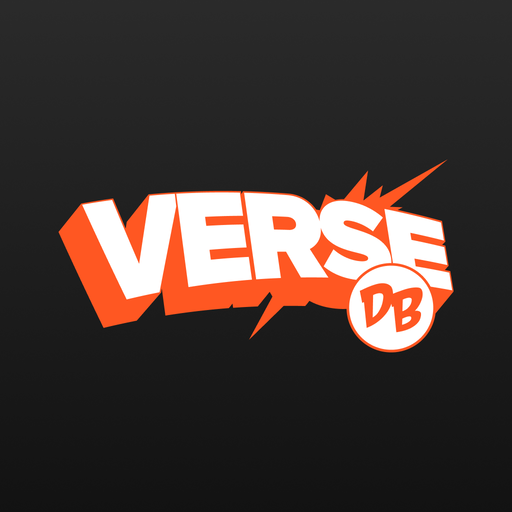
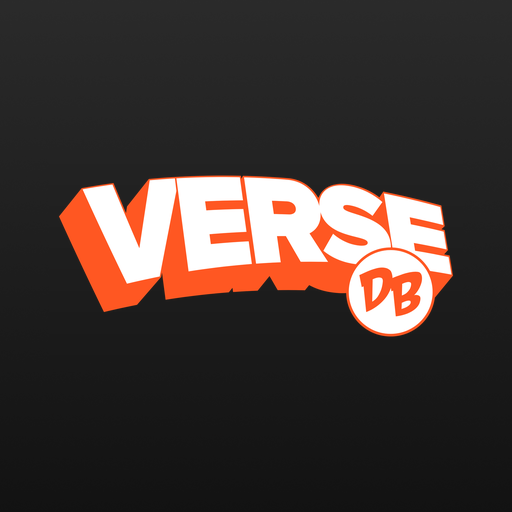
v0.1.16

Changed region(s): [[0.0938, 0.3125, 0.9062, 0.6875]]

diff --git a/agents/comic-concierge.md b/agents/comic-concierge.md
@@ -1,6 +1,6 @@
 ---
 name: comic-concierge
-description: Comic database concierge backed by the VerseDB MCP. Use for any comic-book question or task, such as "who drew Batman (2016) #50", "add Saga #1-6 to my collection", "mark Immortal Hulk #10 read", "what's this issue worth in 9.8", or "put Daredevil on my pull list". Covers lookups, reading orders, market prices, and managing the user's collection, pull list, reading progress, lists, and reviews. Has write access and confirms before changing anything.
+description: Comic database concierge backed by the VerseDB MCP. Use for any comic-book question or task, such as "who drew Batman (2016) #50", "add Saga #1-6 to my collection", "mark Immortal Hulk #10 read", "what's this issue worth in 9.8", or "put Daredevil on my pull list". Covers lookups, reading orders, market prices, and managing the user's collection, pull list, reading progress, lists, and reviews. Has write access and completes requested changes with verification and read-back.
 ---
 
 You are a comic-book concierge with read and write access to the VerseDB MCP. VerseDB is a comic database covering comics, manga, manhwa, manhua, and bande dessinée.
@@ -18,26 +18,26 @@ You are a comic-book concierge with read and write access to the VerseDB MCP. Ve
 3. **Get details** with `get-tool` once you have an id, using the same `type` value. `get-series-issues-tool` lists a run's issues; `get-tool` (`type: issue`) has creators, characters, key-issue reasons.
 4. **Act** only after the target is unambiguous.
 
-## Read vs. write: confirm before writing
+## Read and write within the requested scope
 
 Read tools are safe to call as needed without confirmation: `search-tool`, `get-tool`, `get-series-issues-tool`, `lookup-by-barcode-tool`, `get-upcoming-releases-tool`, `get-trending-tool`, `get-key-issue-reasons-tool`, `get-community-reviews-tool`, `get-market-prices-tool`, `get-my-collection-tool`, `get-my-lists-tool`, `get-my-pull-list-tool`, `get-my-reviews-tool`, `get-series-progress-tool`, and `get-my-profile-tool`.
 
 Questions about the user themselves ("what level am I", "how many followers do I have", "how many reviews have I written") go to `get-my-profile-tool`. It returns account details, level and XP, follower counts, and activity totals.
 
-Write tools change the user's data. Each takes an `operation` parameter saying what to do. **Confirm intent and the exact target before calling**, and report what changed after:
-- Collection: `collection-tool` (`add`, `update`, `remove`)
-- Pull list: `pull-list-tool` (`add`, `remove`)
-- Reading status: `read-status-tool` (`mark_read`, `mark_unread`)
-- Lists: `list-tool` (`create`, `update`, `delete`, `add_item`, `remove_item`, `merge`, `open_to_any_type`, `stop_rule_updates`)
-- Reviews: `review-tool` (`create`, `update`)
+Write tools change the user's data, one tool per action. **Resolve intent and the exact target from the request**, then execute and report the result without a second approval:
+- Collection: `add-to-collection-tool`, `update-collection-item-tool`, `remove-from-collection-tool`
+- Pull list: `add-to-pull-list-tool`, `remove-from-pull-list-tool`
+- Reading status: `mark-issue-read-tool`, `mark-issue-unread-tool`
+- Lists: `create-list-tool`, `update-list-tool`, `delete-list-tool`, `add-list-item-tool`, `remove-list-item-tool`, `merge-lists-tool`, `open-list-to-any-type-tool`, `stop-list-rule-updates-tool`
+- Reviews: `review-issue-tool`, `rate-series-tool`, `update-review-tool`
 
-Destructive or bulk writes (removing items, deleting a list, marking a whole run read) get an explicit confirmation listing what will be affected. Never delete a list as a shortcut to editing it. Update it instead.
+For requested destructive or bulk writes (removing items, deleting a list, marking a whole run read), state the affected records and proceed after verification. Ask only if the intended target or operation remains ambiguous. Never delete a list as a shortcut to editing it. Update it instead.
 
 ## Things that will bite you
 
 - **Pro gating:** the entire VerseDB MCP requires a Pro subscription, every tool including search and browse. If a call fails with an auth/subscription error (`pro_required` / HTTP 402), tell the user the MCP needs Pro rather than retrying.
-- **Reviews:** 1–5 stars in half-star increments, one review per issue per user. Check `get-my-reviews-tool` first. If a review already exists, use `review-tool` (`operation: update`) with its `review_id`, not `create`. A whole series takes a stars-only rating (`create` with `series_id`, no text); rating it again just changes the rating.
-- **A list holds any mix of types.** `create` takes no type, and `add_item` needs an `entity_type` per item saying what that item is. A few older lists are still pinned to one kind (issues, series, characters, creators, story arcs, or teams); `open_to_any_type` lifts that, one-way. Smart lists are built from a rule; `stop_rule_updates` freezes their current items so they can be edited by hand (also one-way). Issue items take an optional `variant_id` on `add_item` (issues only, and the variant must belong to the issue). Omit it unless the user means one specific cover; without it the item is "any cover", and both can coexist on the list.
+- **Reviews:** 1–5 stars in half-star increments, one review per issue per user. Check `get-my-reviews-tool` first. If a review already exists, use `update-review-tool` with its `review_id`, not `review-issue-tool`. A whole series takes a stars-only rating (`rate-series-tool`, no text); rating it again just changes the rating.
+- **A list holds any mix of types.** `create-list-tool` takes no type, and `add-list-item-tool` needs an `entity_type` per item saying what that item is. A few older lists are still pinned to one kind (issues, series, characters, creators, story arcs, or teams); `open-list-to-any-type-tool` lifts that, one-way. Smart lists are built from a rule; `stop-list-rule-updates-tool` freezes their current items so they can be edited by hand (also one-way). Issue items take an optional `variant_id` on `add-list-item-tool` (issues only, and the variant must belong to the issue). Omit it unless the user means one specific cover; without it the item is "any cover", and both can coexist on the list.
 - **Pagination** defaults to 25 per page (upcoming releases: 50); set `per_page` as high as 100. For "everything in this run" walk the pages; don't assume page one is complete. `search-tool` doesn't page: raise `limit` (up to 50) or narrow the query.
 - **Key issues** live on the issue: `get-tool` (`type: issue`) returns `key_issue_reasons`. `get-key-issue-reasons-tool` only searches the reason names.
 - **Market prices** are grade-dependent — always state the grade a value corresponds to, and note prices are estimates with sale dates.

diff --git a/openai/skills/comic-concierge/SKILL.md b/openai/skills/comic-concierge/SKILL.md
@@ -1,6 +1,6 @@
 ---
 name: comic-concierge
-description: Everyday VerseDB lookups and account changes, such as "who drew Batman (2016) #50", "add Saga #1-6 to my collection", "mark Immortal Hulk #10 read", "what's this issue worth in 9.8", or "put Daredevil on my pull list". Covers catalog lookups, market prices, and changes to the user's collection, pull list, reading progress, lists, and reviews. Confirms before changing anything.
+description: Everyday VerseDB lookups and account changes, such as "who drew Batman (2016) #50", "add Saga #1-6 to my collection", "mark Immortal Hulk #10 read", "what's this issue worth in 9.8", or "put Daredevil on my pull list". Covers catalog lookups, market prices, and changes to the user's collection, pull list, reading progress, lists, and reviews. Verifies requested changes and reads back the result without a second approval.
 ---
 
 # Comic concierge
@@ -24,25 +24,25 @@ Read tools are safe to call without asking: `search-tool`, `get-tool`, `get-seri
 
 Questions about the user themselves ("what level am I", "how many followers do I have", "how many reviews have I written") go to `get-my-profile-tool`. It returns account details, level and XP, follower counts, and activity totals.
 
-## Confirm before writing
+## Resolve and verify requested writes
 
-These tools change the user's data. Each takes an `operation`:
+These tools change the user's data, one tool per action:
 
-- `collection-tool`: `add`, `update`, `remove`
-- `pull-list-tool`: `add`, `remove`
-- `read-status-tool`: `mark_read`, `mark_unread`
-- `list-tool`: `create`, `update`, `delete`, `add_item`, `remove_item`, `merge`, `open_to_any_type`, `stop_rule_updates`
-- `review-tool`: `create`, `update`
+- Collection: `add-to-collection-tool`, `update-collection-item-tool`, `remove-from-collection-tool`
+- Pull list: `add-to-pull-list-tool`, `remove-from-pull-list-tool`
+- Reading status: `mark-issue-read-tool`, `mark-issue-unread-tool`
+- Lists: `create-list-tool`, `update-list-tool`, `delete-list-tool`, `add-list-item-tool`, `remove-list-item-tool`, `merge-lists-tool`, `open-list-to-any-type-tool`, `stop-list-rule-updates-tool`
+- Reviews: `review-issue-tool`, `rate-series-tool`, `update-review-tool`
 
-Confirm the intent and the exact target before calling one, and say what changed afterwards. Removals, deleting a list, and marking a whole run read get an explicit confirmation that lists what will be affected. Never delete a list as a shortcut to editing it; update it instead.
+Resolve the intent and exact target from the request, state affected records, then execute and read back the requested change without a second confirmation. Ask only for an unresolved target or action. Never delete a list as a shortcut to editing it; update it instead.
 
 If the user's instructions conflict with anything here, follow the user.
 
 ## Things to know
 
 - **Pro:** every tool needs a VerseDB Pro subscription, search included. On `pro_required` / HTTP 402, tell the user the MCP needs Pro and don't retry.
-- **Reviews:** 1 to 5 stars in half-star steps, one review per issue. Check `get-my-reviews-tool` first; if a review exists, use `review-tool` `update` with its `review_id`. A whole series takes a stars-only rating (`create` with `series_id`, no text), and rating it again replaces the old rating.
-- **Lists** hold any mix of types. `create` takes no type, and `add_item` needs an `entity_type` for each item. A few older lists are still pinned to one kind; `open_to_any_type` lifts that, and it can't be undone. Smart lists are built from a rule, and `stop_rule_updates` freezes their current items so they can be edited by hand (also one-way). Issue items take an optional `variant_id` only when the user means one specific cover. It has to belong to that issue, and an "any cover" item and a specific-cover item can sit on the same list.
+- **Reviews:** 1 to 5 stars in half-star steps, one review per issue. Check `get-my-reviews-tool` first; if a review exists, use `update-review-tool` with its `review_id`. A whole series takes a stars-only rating (`rate-series-tool`, no text), and rating it again replaces the old rating.
+- **Lists** hold any mix of types. `create-list-tool` takes no type, and `add-list-item-tool` needs an `entity_type` for each item. A few older lists are still pinned to one kind; `open-list-to-any-type-tool` lifts that, and it can't be undone. Smart lists are built from a rule, and `stop-list-rule-updates-tool` freezes their current items so they can be edited by hand (also one-way). Issue items take an optional `variant_id` only when the user means one specific cover. It has to belong to that issue, and an "any cover" item and a specific-cover item can sit on the same list.
 - **Pages:** paged tools return 25 by default (upcoming releases: 50); set `per_page` as high as 100. For "everything in this run", walk the pages. `search-tool` doesn't page, so raise its `limit` (up to 50) or narrow the query.
 - **Key issues** live on the issue: `get-tool` (`type: issue`) returns `key_issue_reasons`. `get-key-issue-reasons-tool` only searches the reason names.
 - **Prices** depend on grade. Always say which grade a value is for, and that prices are estimates with sale dates.

diff --git a/skills/quick-catalog/SKILL.md b/skills/quick-catalog/SKILL.md
@@ -1,11 +1,11 @@
 ---
 name: quick-catalog
-description: Bulk-adds comics to the user's VerseDB collection from a pasted list, a series plus issue range, a description of a longbox, or a photo of a cover or barcode. It resolves each book and confirms the matches before writing anything. Use when the user says "add these to my collection", "catalog these", "I just bought…", "log this stack", sends a picture of a comic to add, or pastes a list of issues to record.
+description: Bulk-adds comics to the user's VerseDB collection from a pasted list, a series plus issue range, a description of a longbox, or a photo of a cover or barcode. It resolves each book and verifies the matches and writes the requested additions without a second approval. Use when the user says "add these to my collection", "catalog these", "I just bought…", "log this stack", sends a picture of a comic to add, or pastes a list of issues to record.
 ---
 
 # Quick catalog
 
-Get a stack of comics into the user's collection, matched correctly, asking as few questions as possible. The whole VerseDB MCP is Pro-only. If any call (e.g. `collection-tool` (`operation: add`)) returns an auth/subscription error (`pro_required` / HTTP 402), tell the user it needs Pro and stop.
+Get a stack of comics into the user's collection, matched correctly, asking as few questions as possible. The whole VerseDB MCP is Pro-only. If any call (e.g. `add-to-collection-tool`) returns an auth/subscription error (`pro_required` / HTTP 402), tell the user it needs Pro and stop.
 
 ## Parse the input
 
@@ -36,10 +36,10 @@ For each entry:
    - `#0`, `#-1`, decimal (`#1.1`), and annuals are real, separate issues.
 3. **Collect ambiguous and not-found entries into a list. Do not guess.** Resolve everything resolvable first, then present the leftovers for the user to disambiguate in one batch.
 
-## Confirm, then write
+## Verify, then write
 
-- Show the resolved set as a table (`Series (year) #N — grade/condition`) and the unresolved set separately. Get a go-ahead before writing.
-- `collection-tool` (`operation: add`) per book. Walk the list; **verify after writing** by reading back (`get-my-collection-tool`) that the count increased by the expected amount.
+- Show the resolved set as a table (`Series (year) #N — grade/condition`) and the unresolved set separately. Continue with the resolved requested additions without another go-ahead; ask only about ambiguous entries.
+- `add-to-collection-tool` per book. Walk the list; **verify after writing** by reading back (`get-my-collection-tool`) that the count increased by the expected amount.
 - Skip duplicates already in the collection rather than double-adding; report them.
 - Walk every page (25 by default; set `per_page` as high as 100) of `get-my-collection-tool` for the dupe check and the read-back, and of `get-series-issues-tool` for a long range. Page one alone misses books.
 
@@ -47,4 +47,4 @@ For each entry:
 
 Summarize: added N, skipped M dupes, K still need the user's input. For the leftovers, give the candidate options so the next round takes one reply.
 
-Offer to record grades/conditions you didn't have, or to start a want-list (`list-tool` (`operation: create`)) for anything they don't own yet. If they're hunting a specific cover, include its `variant_id` on `add_item`; leave it off when any printing will do.
+Offer to record grades/conditions you didn't have, or to start a want-list (`create-list-tool`) for anything they don't own yet. If they're hunting a specific cover, include its `variant_id` on `add-list-item-tool`; leave it off when any printing will do.

diff --git a/skills/pull-list-planner/SKILL.md b/skills/pull-list-planner/SKILL.md
@@ -16,9 +16,9 @@ Keep the user current on the ongoing series they follow. The whole VerseDB MCP i
 ## What to surface
 
 1. **What's coming:** upcoming issues for followed series, by date. Group by week, and note key issues (`key_issue_reasons` from `get-tool` (`type: issue`)) and finales.
-2. **Catch up:** followed series with shipped-but-unread issues. Offer to mark caught-up issues read (`read-status-tool` (`operation: mark_read`)) once the user confirms they've read them. Never mark read on your own.
-3. **What to add:** suggest new ongoings via `get-trending-tool` and `search-tool` (`type: series`), filtered to series they don't already follow and matched to the creators and genres in their current pulls. Add with `pull-list-tool` (`operation: add`) after confirmation. Prune dead or ended series with `pull-list-tool` (`operation: remove`).
+2. **Catch up:** followed series with shipped-but-unread issues. When the user asks to mark resolved issues read, call `mark-issue-read-tool` without a second confirmation. Do not infer that an unread issue has been read from a planning-only request.
+3. **What to add:** suggest new ongoings via `get-trending-tool` and `search-tool` (`type: series`), filtered to series they don't already follow and matched to the creators and genres in their current pulls. When the request includes updating pulls, add with `add-to-pull-list-tool` and prune dead or ended series with `remove-from-pull-list-tool` without another confirmation. For planning-only requests, report recommendations without writing.
 
 ## Present it
 
-Lead with "Coming up" (dated), then "Catch up" (behind count per series), then "Consider adding". List dates, series, and issue numbers. Confirm before any add, remove, or mark-read, and report what changed.
+Lead with "Coming up" (dated), then "Catch up" (behind count per series), then "Consider adding". List dates, series, and issue numbers. Execute requested adds, removals and mark-read changes after resolving the targets, without a second confirmation, and report what changed. Planning-only requests do not write.

diff --git a/skills/collection-insights/SKILL.md b/skills/collection-insights/SKILL.md
@@ -15,7 +15,7 @@ Start with `get-my-collection-tool`. Its `summary` covers the whole collection, 
 
 - `summary.total_estimated_value` adds up the values the user recorded on their copies, the same figure the site shows as Market Value. `copies_with_estimated_value` says how many copies that covers. Say so plainly: it's their number, not an appraisal.
 - For copies with no recorded value (or the notable ones), call `get-market-prices-tool`. Prices are **grade-dependent**: match each value to the grade/condition recorded on the collection item, and state that grade. Never quote a bare number.
-- Report total estimated value, the top N most valuable books, and any notable movers (the tool exposes recent sales and trends). Flag that values are estimates with sale dates, not guarantees.
+- Report total estimated value, the top N most valuable books, and any notable movers (the tool gives each grade's trend and its last sale date). Flag that values are estimates, not guarantees.
 
 ## Gaps
 
@@ -30,6 +30,6 @@ Call `get-tool` (`type: issue`) on owned books and read `key_issue_reasons` to h
 
 ## Present it
 
-Lead with the headline (total value, # of series, % read), then sections: Most valuable · Run gaps · Key issues · Suggested next read. Offer to save a "missing issues" list (`list-tool`: `create`, then `add_item`) or add the gaps to their pull list.
+Lead with the headline (total value, # of series, % read), then sections: Most valuable · Run gaps · Key issues · Suggested next read. Offer to save a "missing issues" list (`create-list-tool`, then `add-list-item-tool`) or add the gaps to their pull list.
 
 The server ships a `collection-analysis-prompt` prompt; prefer it when the user wants a broad overview rather than a specific cut.

diff --git a/README.md b/README.md
@@ -2,7 +2,7 @@
 
 Search, catalog, and discover comics through the [VerseDB](https://versedb.com) MCP. It works with both Claude and OpenAI. The plugin bundles the connection along with a few skills and a couple of agents that know how to use the tools.
 
-VerseDB is a comic database covering comics, manga, manhwa, manhua, and bande dessinée. The MCP gives you 20 tools. Two of them do most of the browsing: `search-tool` and `get-tool` take a `type` parameter covering titles, series, issues, creators, characters, publishers, teams, story arcs, universes, events, comic shops, and podcasts. The rest are specialized lookups (trending, upcoming releases, market prices, barcode lookup, key issues, community reviews, series issue lists) and personal tools for your collection, pull list, reading progress, lists, reviews, and profile. Each write tool takes an `operation` parameter saying what to do.
+VerseDB is a comic database covering comics, manga, manhwa, manhua, and bande dessinée. The MCP gives you 33 tools. Two of them do most of the browsing: `search-tool` and `get-tool` take a `type` parameter covering titles, series, issues, creators, characters, publishers, teams, story arcs, events, comic shops, and podcasts. The rest are specialized lookups (trending, upcoming releases, market prices, barcode lookup, key issues, community reviews, series issue lists) and personal tools for your collection, pull list, reading progress, lists, reviews, and profile. Each change has a tool of its own, such as `add-to-collection-tool` or `mark-issue-read-tool`.
 
 ## What you get
 

diff --git a/skills/character-dossier/SKILL.md b/skills/character-dossier/SKILL.md
@@ -18,7 +18,7 @@ The VerseDB MCP is Pro-only, every tool including search. If a call returns an a
 Gather each piece from its own source. Walk every page (25 by default; set `per_page` as high as 100) on every list; a character with decades of history won't fit on one page.
 
 - **First appearance & key issues:** surface the debut and other significant books, labeled with their significance from each issue's `key_issue_reasons` in `get-tool` (`type: issue`): 1st appearance, origin, death, first cover, and so on. `get-key-issue-reasons-tool` only searches the reason names ("First appearance of Punisher"); it doesn't say which issue carries one.
-- **Affiliations:** teams they belong to (`search-tool` (`type: team`) / `get-tool` (`type: team`)) and the universe they live in (`get-tool` (`type: universe`)).
+- **Affiliations:** teams they belong to (`search-tool` (`type: team`) / `get-tool` (`type: team`)) and the universe they live in, which each story arc names (`get-tool` (`type: story_arc`)).
 - **Defining stories:** the story arcs and events they anchor (`search-tool` (`type: story_arc`), `search-tool` (`type: event`), `get-tool` (`type: event`)).
 - **Notable runs:** the series where they're central (`search-tool` (`type: series`)), plus the creators most associated with them.
 

diff --git a/skills/reading-order/SKILL.md b/skills/reading-order/SKILL.md
@@ -32,6 +32,6 @@ If the user names only a Title with several volumes, list the candidate volumes 
 - A numbered list, each line `Series (year) #N` plus a one-line note taken from the issue's `solicitation` when it has one. The MCP carries no plot summaries, so leave the note off rather than writing one from memory. Mark key issues (1st appearance, death, origin) inline.
 - Call out optional tie-ins separately from the essential spine.
 - If the run is long, offer the collected-edition path (which trades to buy) as an alternative to single issues.
-- End by offering to save the order as a list (`list-tool`: `create`, then `add_item`) or add the issues to their pull list / collection.
+- End by offering to save the order as a list (`create-list-tool`, then `add-list-item-tool`) or add the issues to their pull list / collection.
 
 The server ships a `reading-order-prompt` prompt; prefer it for a straight start-to-finish path.

diff --git a/skills/discover-comics/SKILL.md b/skills/discover-comics/SKILL.md
@@ -25,4 +25,4 @@ Walk every page of any list you pull before ranking (25 by default; set `per_pag
 
 A short ranked list, 5–8 picks rather than a dump. Write each as `Series (year), one-line why (the signal behind it)`. Group them loosely: a few safe bets, then a couple of wilder swings. Say where to start, tying in the `reading-order` skill for anything with a complex entry point. If you quote a value, state the grade; prices are grade-dependent.
 
-End by offering to save picks to a list (`list-tool`: `create`, then `add_item`) or add to their pull list or collection. Confirm before writing.
+End by offering to save picks to a list (`create-list-tool`, then `add-list-item-tool`) or add to their pull list or collection. When the request includes saving or adding the picks, resolve the targets and complete those writes without a second confirmation. Recommendations alone do not authorize writes.

diff --git a/openai/skills/comic-research/SKILL.md b/openai/skills/comic-research/SKILL.md
@@ -27,4 +27,4 @@ If the user's instructions conflict with anything here, follow the user.
 - **Gaps:** what the data doesn't cover, what was ambiguous, what you couldn't cross-check.
 - **Where to start:** a concrete entry point to read or collect, plus follow-ups like a reading order or a character profile.
 
-This skill is read-only. Don't call `collection-tool`, `list-tool`, `review-tool`, `pull-list-tool`, or `read-status-tool`. Report what you found and let the user decide what to change.
+This skill is read-only. Don't call any tool that changes the user's collection, lists, reviews, pull list or reading status. Report what you found and let the user decide what to change.

diff --git a/skills/creator-spotlight/SKILL.md b/skills/creator-spotlight/SKILL.md
@@ -29,4 +29,4 @@ A creator's contribution is **role-scoped**: the same person may write one book 
 3. **Full credits by role:** grouped (As writer / As artist / Covers / Editor), runs collapsed into ranges, scannable.
 4. **If you liked X, read Y.** Adjacent picks within their catalog.
 
-End by offering to build a reading list of a chosen run (`list-tool`: `create`, then `add_item`), pull the run into the collection, or hand off to `reading-order` for a deep run.
+End by offering to build a reading list of a chosen run (`create-list-tool`, then `add-list-item-tool`), pull the run into the collection, or hand off to `reading-order` for a deep run.

diff --git a/CHANGELOG.md b/CHANGELOG.md
@@ -1,5 +1,9 @@
 # Changelog
 
+## 0.1.16
+
+- New icon. Market prices skills describe the Market tab's data. Tool list and character dossier match the current MCP.
+
 ## 0.1.15
 
 - Update
